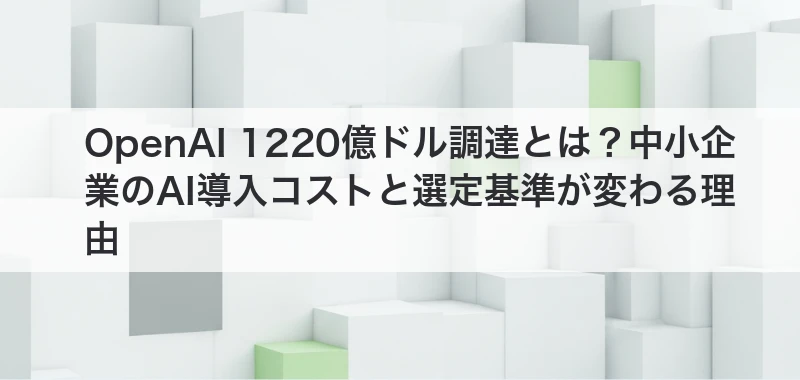
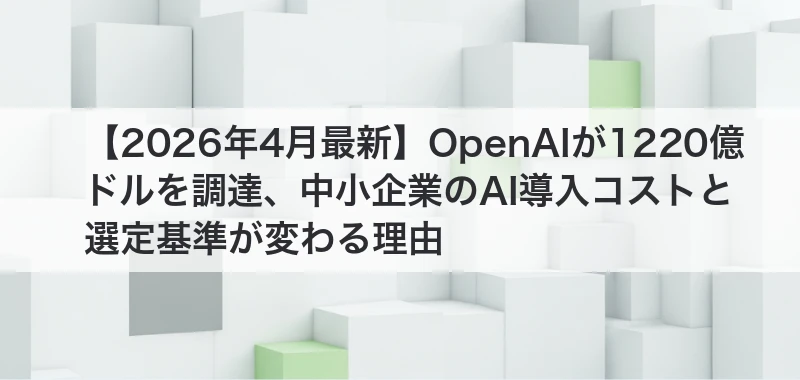
Fix blog064 event-style title framing

Changed region(s): [[0.0938, 0.3184, 0.9375, 0.55], [0.0938, 0.5789, 0.5625, 0.6947]]

diff --git a/blogs/blog064.html b/blogs/blog064.html
@@ -5,15 +5,15 @@
     <meta charset="UTF-8">
     <meta name="viewport" content="width=device-width, initial-scale=1.0">
     <meta name="robots" content="index, follow">
-    <title>【2026年4月最新】OpenAI 1220億ドル調達とは？中小企業のAI導入コストと選定基準が変わる理由 | MIRAINAブログ</title>
+    <title>【2026年4月最新】OpenAIが1220億ドルを調達、中小企業のAI導入コストと選定基準が変わる理由 | MIRAINAブログ</title>
     <meta name="description"
-        content="OpenAI 1220億ドル調達を解説。2026年3月31日の公式発表をもとに、資金の使い道、1M企業利用の背景、中小企業のAI導入コスト・ベンダー選定への影響を整理します。">
-    <meta property="og:title" content="【2026年4月最新】OpenAI 1220億ドル調達とは？中小企業のAI導入コストと選定基準が変わる理由">
+        content="OpenAIが2026年3月31日に1220億ドルを調達した発表をもとに、資金の使い道、1M企業利用の広がり、中小企業が見直すべきAI導入コストと選定基準を整理します。">
+    <meta property="og:title" content="【2026年4月最新】OpenAIが1220億ドルを調達、中小企業のAI導入コストと選定基準が変わる理由">
     <meta property="og:type" content="article">
     <meta property="og:url" content="https://miraina-ai.com/blogs/blog064.html">
     <meta property="og:image" content="https://miraina-ai.com/images/blogs_images/blog064-1.webp">
     <meta property="og:description"
-        content="OpenAI 1220億ドル調達を解説。2026年3月31日の公式発表をもとに、資金の使い道、1M企業利用の背景、中小企業のAI導入コスト・ベンダー選定への影響を整理します。">
+        content="OpenAIが2026年3月31日に1220億ドルを調達した発表をもとに、資金の使い道、1M企業利用の広がり、中小企業が見直すべきAI導入コストと選定基準を整理します。">
 
     <link rel="preconnect" href="https://fonts.googleapis.com">
     <link rel="preconnect" href="https://fonts.gstatic.com" crossorigin>
@@ -83,7 +83,7 @@
             <ul>
                 <li><a href="/">ホーム</a></li>
                 <li><a href="/blogs.html">ブログ</a></li>
-                <li>【2026年4月最新】OpenAI 1220億ドル調達とは？中小企業のAI導入コストと選定基準が変わる理由</li>
+                <li>【2026年4月最新】OpenAIが1220億ドルを調達、中小企業のAI導入コストと選定基準が変わる理由</li>
             </ul>
         </div>
 
@@ -98,7 +98,7 @@
                         <p class="article-tag">中小企業DX</p>
                     </div>
                 </div>
-                <h1 class="article-title">【2026年4月最新】OpenAI 1220億ドル調達とは？中小企業のAI導入コストと選定基準が変わる理由</h1>
+                <h1 class="article-title">【2026年4月最新】OpenAIが1220億ドルを調達、中小企業のAI導入コストと選定基準が変わる理由</h1>
                 <div class="article-thumbnail">
                     <img src="/images/blogs_images/blog064-1.webp" alt="OpenAIの大型資金調達とAI導入判断の変化" width="800" height="450"
                         fetchpriority="high">
@@ -119,18 +119,18 @@
             <div class="article-toc">
                 <div class="toc-title">目次</div>
                 <ul>
-                    <li><a href="#section1">1. OpenAI 1220億ドル調達とは？まず押さえるべき事実</a></li>
+                    <li><a href="#section1">1. OpenAIが1220億ドルを調達。まず押さえるべき事実</a></li>
                     <li><a href="#section2">2. なぜ今これほどの資金が必要なのか</a></li>
                     <li><a href="#section3">3. 中小企業のAI導入コストと選定基準はどう変わるか</a></li>
-                    <li><a href="#section4">4. 実際に成果を出している企業は何をしているか</a></li>
-                    <li><a href="#section5">5. 今すぐやるべき3つのアクション</a></li>
+                    <li><a href="#section4">4. 先行企業は何を整えて成果を出しているか</a></li>
+                    <li><a href="#section5">5. 中小企業が今すぐやるべき3つのアクション</a></li>
                     <li><a href="#section6">6. まとめ</a></li>
                 </ul>
             </div>
 
             <div class="article-body">
 
-                <h2 id="section1">1. OpenAI 1220億ドル調達とは？まず押さえるべき事実</h2>
+                <h2 id="section1">1. OpenAIが1220億ドルを調達。まず押さえるべき事実</h2>
                 <p>
                     OpenAIは2026年3月31日の公式発表で、<strong>1220億ドルのコミット資本</strong>を
                     <strong>8520億ドルのポストマネー評価額</strong>で調達したと公表しました。
@@ -261,7 +261,7 @@
                     逆に、現場の使い方が固まらないまま高機能な基盤だけ契約しても、利用率が上がらず費用対効果を説明できません。
                 </p>
 
-                <h2 id="section4">4. 実際に成果を出している企業は何をしているか</h2>
+                <h2 id="section4">4. 先行企業は何を整えて成果を出しているか</h2>
                 <p>
                     OpenAIの顧客事例ページでは、世界で<strong>100万社以上がOpenAIを利用</strong>していると案内されています。
                     重要なのは件数そのものより、成果を出している企業が「全社展開の前提」を押さえている点です。
@@ -313,7 +313,7 @@
                     <strong>自社で継続利用が生まれる設計になっているか</strong>を確認することが重要です。
                 </p>
 
-                <h2 id="section5">5. 今すぐやるべき3つのアクション</h2>
+                <h2 id="section5">5. 中小企業が今すぐやるべき3つのアクション</h2>
                 <p>
                     OpenAIの大型調達を受けて、日本の中小企業が今すぐやるべきことは、乗り換えを急ぐことではありません。
                     むしろ、インフラ競争が本格化する前提で、比較軸を作り直すことです。

diff --git a/.codex/skills/miraina-ai-blog/references/seo-rules.md b/.codex/skills/miraina-ai-blog/references/seo-rules.md
@@ -1,0 +1,127 @@
+# SEO ルール — MIRAINA ブログ
+
+## ターゲット読者像
+
+- 日本の中小企業経営者・マーケター・AI推進担当
+- AIに興味はあるが深くは知らない〜ある程度使いこなしている層
+- 検索キーワード: 「[AIツール名] とは」「[AI概念] わかりやすく」「AI活用 [業種/業務]」
+- ニュース系検索キーワード: 「[企業名] 資金調達」「[企業名] 提携」「[企業名] 発表」「[サービス名] 終了」「[AIニュース] 影響」
+
+## キーワード設計ルール
+
+### 一次キーワード
+
+- 必ず 1 つに絞る。
+- 検索ボリュームがある具体語を選ぶ。
+- 記事タイトルの前半 30 文字以内に置く。
+
+### 二次キーワード
+
+- 3〜5 個選ぶ。
+- 一次キーワードの共起語や関連語を使う。
+- H2 と本文に自然に散りばめる。
+
+### 配置チェック
+
+- title タグに一次キーワードを含める。
+- meta description に一次キーワードを含める。
+- H1 に一次キーワードを含める。
+- 最初の H2 か冒頭段落に一次キーワードを含める。
+- 本文に二次キーワードを自然な頻度で入れる。
+
+## タイトル設計ルール
+
+### まずトピックを分類する
+
+- `定義解説型`: 概念、製品、仕様、制度、フレームワーク、用語の意味を説明する記事
+- `ニュース/事実型`: 資金調達、発表、提供終了、提携、買収、法改正、障害、決算などの出来事を整理する記事
+- 日本語として文にした方が自然な出来事は、名詞句に潰して `とは？` にしない
+- 悪い例: `OpenAI 1220億ドル調達とは？`
+- 良い例: `OpenAIが1220億ドルを調達、中小企業のAI導入コストと選定基準が変わる理由`
+
+### 推奨フォーマット
+
+```text
+定義解説型:
+【YYYY年最新】{一次キーワード}とは？{具体的なベネフィット}
+【完全ガイド】{一次キーワード}の使い方・活用事例{件数}選
+{一次キーワード}を{業種/業務}で活用する方法｜{具体的な効果}
+
+ニュース/事実型:
+【YYYY年M月最新】{企業名}が{出来事}、{読者に関係する変化}
+{企業名}の{発表・提携・終了・買収}で{何が変わるか}
+{出来事}をどう見るべきか｜{業種/読者}への影響
+```
+
+### 制約
+
+- 全角 60 文字以内に収める。
+- `？`, `！`, `｜` で関心を引く。
+- 時事性があるなら年号を入れる。
+- 「わかりやすく」「入門」「初心者」は検索意図に合うときだけ使う。
+- ニュース/事実型では、事実を先に言い切る見出しを優先する。
+- ニュース/事実型で `...とは？` を使うのは、出来事自体ではなく制度名・製品名・固有機能名の解説に限る。
+
+## Meta Description
+
+- 全角 120 文字以内に収める。
+- 一次キーワードを先頭 30 文字以内に置く。
+- 得られる情報や効果を具体的に示す。
+- 末尾は「〜を解説します」「〜を紹介します」で締める。
+- ニュース/事実型では、動詞を含む自然な文にする。例: `OpenAIが1220億ドルを調達した発表をもとに...`
+
+## H2 構成テンプレート
+
+```text
+定義解説型:
+H1: [タイトル]
+
+H2: [一次キーワード]とは？（定義・概要）
+H2: [一次キーワード]の主な特徴・機能
+H2: [一次キーワード]のビジネス活用事例
+H2: [一次キーワード]の使い方・始め方
+H2: [一次キーワード]導入時の注意点
+H2: まとめ
+
+ニュース/事実型:
+H1: [タイトル]
+
+H2: まず押さえるべき事実
+H2: なぜこの出来事が起きたのか
+H2: 企業・現場への影響
+H2: 先行事例や関連データ
+H2: 今やるべきこと
+H2: まとめ
+```
+
+- H2 は 4〜6 個を目安にする。
+- 各 H2 直下に 150〜400 字の本文を置く。
+- H3 は必要な箇所だけ使う。
+- FAQ セクションは必要なときだけ追加する。
+- ニュース/事実型の第1H2は `〜とは？` にせず、事実整理や背景説明から入る。
+
+## 本文ルール
+
+- 最低 2000 字、理想は 3000〜4000 字。
+- 冒頭 200 字で「この記事でわかること」を示す。
+- 具体的な数値やデータを最低 1 箇所は出典付きで入れる。
+- ユースケースや事例を 1〜2 個含める。
+- MIRAINA 視点の専門家コメントを 1 段落入れる。
+- 関連ブログやサービスページへの内部リンクを 2〜3 本入れる。
+- タグは 2〜4 個に絞る。
+
+## HTML ルール
+
+- `blogs/blog_template.html` の構造を崩さない。
+- 必須セクションは article header, summary, toc, body, cta, editor, related。
+- 表示日付は `YYYY.MM.DD`、`data.json` は `YYYY-MM-DD`。
+- サムネイル画像は `/images/blogs_images/blogXXX-1.webp`、カード画像は `/images/blogs_images/blog-cardXXX.webp`。
+- 本文図版を入れるときは `<figure class="article-figure">` を使う。
+
+## 避けること
+
+- 同じキーワードの不自然な連呼
+- 根拠のない数値や誇張表現
+- 他社記事の単純な要約だけで終えること
+- タイトルと本文の不一致
+- 出来事を無理に `...とは？` に変換した不自然な日本語

diff --git a/.codex/skills/miraina-ai-blog/SKILL.md b/.codex/skills/miraina-ai-blog/SKILL.md
@@ -1,0 +1,70 @@
+---
+name: miraina-ai-blog
+description: Research current AI news, choose a topic that matches MIRAINA's audience, write an SEO-optimized article, generate the required blog images, and publish it in this repository. Use when asked for today's AI blog, the latest AI news article, a daily AI update, or any MIRAINA blog post driven by recent AI announcements.
+---
+
+# MIRAINA AI Blog
+
+Use this skill only inside the MIRAINA-Website repository. This workflow depends on current information, so use the web tool and prefer official or primary sources for factual claims.
+
+## Required Reads
+
+Read these files before drafting:
+
+- `blogs/blog_template.html`
+- the 3 newest `blogs/blog*.html`
+- `data/data.json`
+- `index.html`
+- `sitemap.xml`
+- `llms.txt`
+- `references/seo-rules.md`
+- `references/publish-checklist.md`
+
+Read `references/ui-check.md` when you reach visual verification.
+
+## Workflow
+
+1. Research 5-7 candidate topics from the last 7 days with the web tool. Prioritize official announcements, Japanese business relevance, and topics connected to MIRAINA services such as LLMO, AI adoption, training, and automation.
+2. Deepen research on the best topic. Keep exact source URLs, publish dates, product names, and any quoted numbers.
+3. Determine the next blog number before creating any image or HTML assets.
+4. Decide whether screenshots are necessary. Capture screenshots when the article cites concrete numbers, exact launch dates, official UI, or any claim that benefits from visual verification.
+5. If screenshots are needed, capture 1-3 pages with Playwright, inspect the images to verify names, dates, and statistics, then convert the best 1-2 PNGs with `scripts/convert_screenshot.py`.
+6. Classify the topic before writing the SEO structure. Decide whether the primary keyword is a definition-style topic (`concept`, `product`, `framework`, `spec`, `regulation`) or an event-style topic (`funding`, `launch`, `shutdown`, `acquisition`, `partnership`, `policy change`, `earnings`, `incident`). This classification controls the title pattern, H2 structure, and tone.
+7. Design the SEO structure from the latest 3 blog posts. Follow `references/seo-rules.md` for keyword, title, description, heading, and tag rules. Do not force event-style topics into a `...とは？` frame.
+8. Create `blogs/blogXXX.html` from `blogs/blog_template.html`. Keep the existing MIRAINA structure, write 2000-4000 Japanese characters, include the 芝優作 editor section, and place converted screenshots in `<figure class="article-figure">`.
+9. Generate the article hero and card images with `scripts/generate_thumbnail.py <blog_num> "<title>"`. The script reads template PNGs from `bg_images/` in this skill, applies `blog_num % 3` as `A/B/C`, and renders the article H1 onto both the hero and card images.
+10. Update the required publish surfaces by following `references/publish-checklist.md`.
+11. Run a mechanical integrity check and a visual UI check. Use desktop and mobile renders and fix issues before finishing.
+12. Report the title, file path, primary keyword, updated files, generated image paths, source URLs, and any fact corrections found during screenshot review.
+
+## Topic Classification And Title Policy
+
+Choose the title shape only after classifying the topic.
+
+- Use `...とは？` only when the reader is genuinely looking for a definition, mechanism, or product explanation.
+- Do not use `...とは？` for event-style facts that are naturally expressed as a sentence in Japanese, such as funding, shutdowns, acquisitions, partnerships, policy changes, or launch announcements.
+- If the phrase sounds unnatural when read aloud as a noun, rewrite it as a factual headline. Good: `OpenAIが1220億ドルを調達`. Bad: `OpenAI 1220億ドル調達とは？`
+- Apply the same classification to the H1, TOC, H2s, meta description, card copy, and `llms.txt`. Do not let only the body become factual while the title remains pseudo-definitional.
+- When in doubt, prefer a headline that states the fact first, then explains the business impact.
+
+## Screenshot Guidance
+
+Capture screenshots only when they improve accuracy or comprehension. Skip them when the article is conceptual and does not cite fragile facts.
+
+When you capture screenshots:
+
+- prefer official pages over secondary coverage
+- save the raw PNGs outside the repository, then convert only the selected images into `images/blogs_images`
+- place the first converted figure under the H2 that explains the most important announcement or data point
+- add a factual caption with the source organization
+
+## Checks
+
+Do not finish until all of the following are true:
+
+- `blogXXX.html` exists
+- `og:image` and `.article-thumbnail` point to `blogXXX-1.webp`
+- `data/data.json` points to `blog-cardXXX.webp`
+- `index.html`, `sitemap.xml`, and `llms.txt` reference the new blog
+- event-style topics are not phrased as `...とは？` in the title, TOC, or first H2
+- desktop and mobile screenshots show no layout breakage
